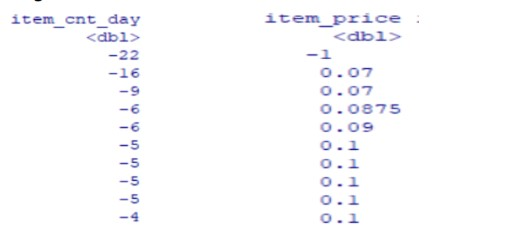
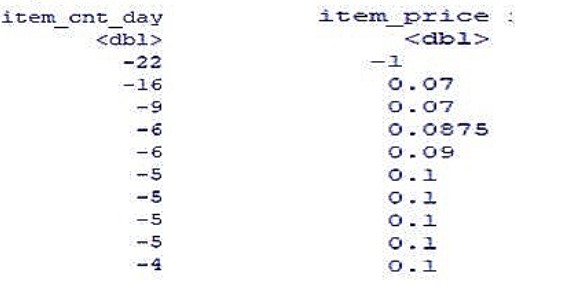
increase width and height of pictures in readme

diff --git a/README.md b/README.md
@@ -6,7 +6,7 @@ The goal is to predict total sales for every product and store in the next month
 ## Data Summary 
 The sales_data and item_Sales data are in two different csv files so first step would be to merge them into one item_sales_data.
 <p align="center">
-    <img src="summary_data.jpg" width="350" title="hover text">
+    <img src="summary_data.jpg" width="500" height="200" title="hover text">
 </p>
 
 The mean of the item_price and item_cnt_day are very weird because the max values of both columns are too large than the mean. This means there are some outliers, and we need to do data cleaning before doing feature engineering.
@@ -19,14 +19,14 @@ I checked for missing values in the dataset, but there were no missing values.
 
 ## Negative values
 <p align="center">
-    <img src="negative_values.jpg" width="350" title="hover text">
+    <img src="negative_values.jpg" width="500" height="200" title="hover text">
 </p>
 
 The negative values rows were removed from the dataset as the data was really big and the negative value rows were small in number, otherwise it should have replaced with 0 or mean.
 
 ## Outliers’ removal
 <p align="center">
-    <img src="outliers.jpg" width="350" title="hover text">
+    <img src="outliers.jpg" width="500" height="200" title="hover text">
 </p>
 
 From the above boxplots, we can find that the dataset also have some outliers in the item_price and item_cnt_day columns. Outliers got handled by removing the noisy data values/obvious outliers by defining some threshold. The data instances that sold more than 800 in one day and item with a price greater than 80,000 were removed
@@ -35,8 +35,8 @@ From the above boxplots, we can find that the dataset also have some outliers in
 After data cleaning, let's do data exploration and represent the data through some beautiful plots. Let's try to understand the data, which item has the most sales by the shop, which item is sold most by a shop, and which category of item is popular among people.
 
 <p align="center">
-    <img src="sales_count_vs_item.jpg" width="350" title="hover text">
-    <img src="sales_count_vs_shop.jpg" width="350" title="hover text">
+    <img src="sales_count_vs_item.jpg" width="500" height="200" title="hover text">
+    <img src="sales_count_vs_shop.jpg" width="500" height="200" title="hover text">
 </p>
 
 In the plots, we can see that shop number 31 sold the most item, similarly, item category 40 was most popular and 20949 item_id is the best seller or had the best sales.
@@ -45,8 +45,8 @@ In the plots, we can see that shop number 31 sold the most item, similarly, item
 For model training, the training data was divided into train and test sets, 70% train and 30% test. Then, trained the model using three methods. Since our problem is a regression problem we should use lm(), tree (), and gbm () methods. lm() and tree () are simple methods that’s why we chose them, and we chose gbm because Gradient Boosting Regression generally provides better accuracy. Our response variable is item count month and predictors are shop_id, item_id, month, year, and item_category_id. I also tried various combinations of predictors, but this combination worked best for me. You can try others as well.
 
 <p align="center">
-    <img src="result_table.jpg" width="350" title="hover text">
-    <img src="gbm_plot.jpg" width="350" title="hover text">
+    <img src="result_table.jpg" width="500" height="200" title="hover text">
+    <img src="gbm_plot.jpg" width="500" height="200" title="hover text">
 </p>
 
 ## Conclusion
